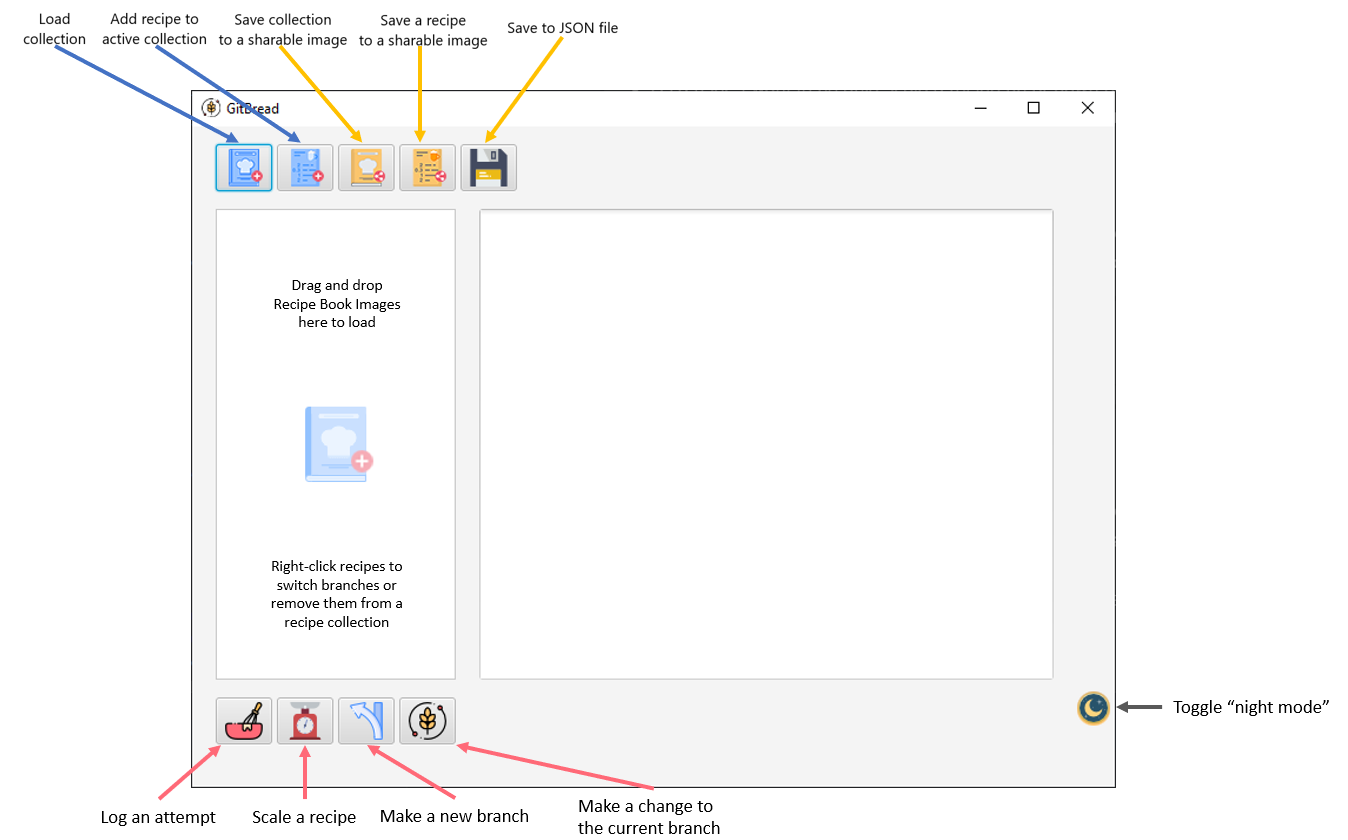
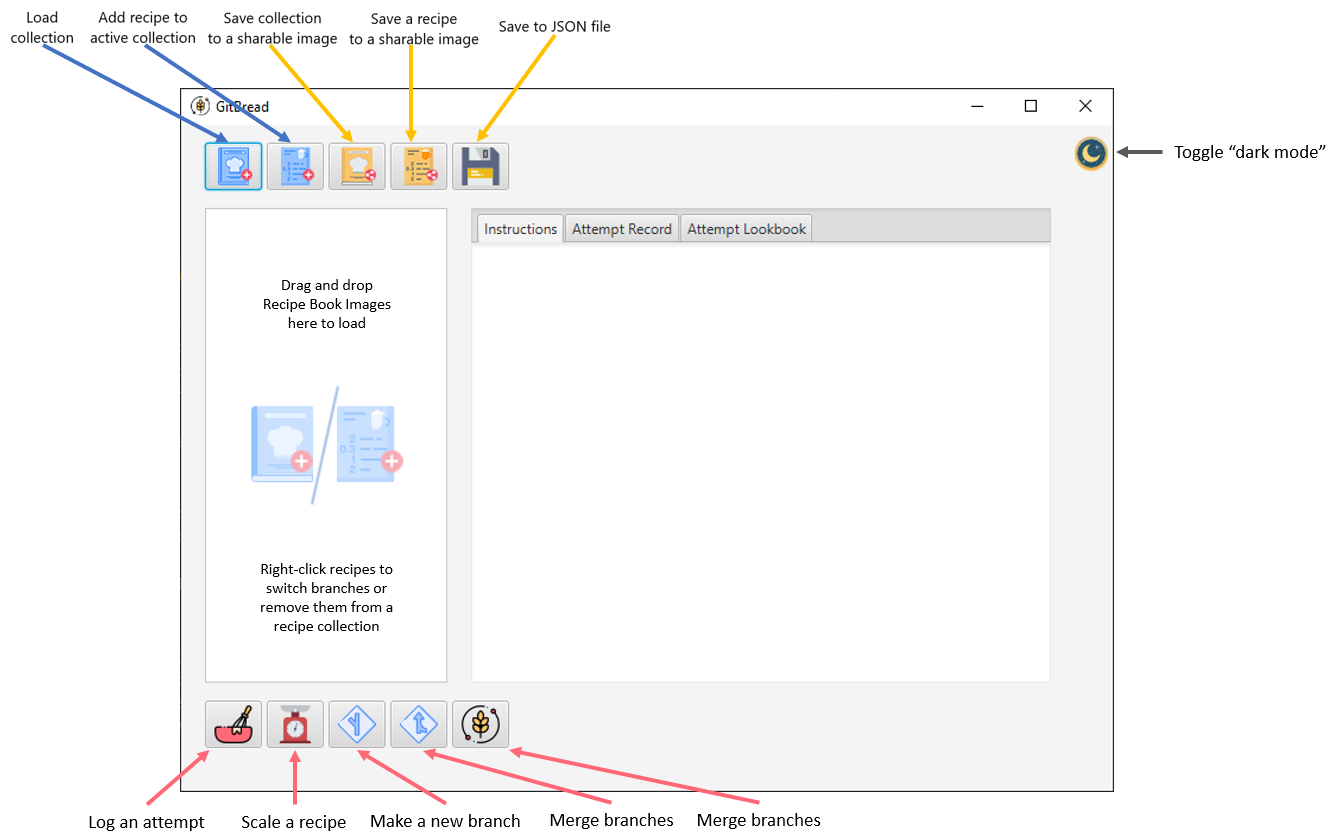
PHASE 3: Made the merge stage easier to interpret. Updated instructions image.

diff --git a/src/main/ui/MergeStage.java b/src/main/ui/MergeStage.java
@@ -5,12 +5,16 @@ import javafx.scene.Scene;
 import javafx.scene.control.Button;
 import javafx.scene.control.ChoiceBox;
 import javafx.scene.control.Label;
+import javafx.scene.text.Text;
 import javafx.scene.layout.VBox;
+import javafx.scene.text.TextAlignment;
+import javafx.scene.text.TextFlow;
 import javafx.stage.Modality;
 import javafx.stage.Stage;
 import model.RecipeDevHistory;
 
 import java.security.NoSuchAlgorithmException;
+import java.util.List;
 
 public class MergeStage {
     private static final int HEIGHT = 150;
@@ -24,7 +28,9 @@ public class MergeStage {
     public void display(RecipeDevHistory activeHistory) {
         stage.setTitle("Merge dialog");
         stage.initModality(Modality.APPLICATION_MODAL);
-        choiceBox.getItems().addAll(activeHistory.getBranches());
+        List<String> branches = activeHistory.getBranches();
+        branches.remove(activeHistory.getCurrentBranch());
+        choiceBox.getItems().addAll(branches);
         setUpScene(activeHistory);
         mergeButtonAction(activeHistory);
         stage.setScene(scene);
@@ -32,7 +38,14 @@ public class MergeStage {
     }
 
     private void setUpScene(RecipeDevHistory activeHistory) {
-        vbox.getChildren().add(new Label(activeHistory.getCurrentBranch()));
+        TextFlow flow = new TextFlow();
+        Text currentBranch = new Text(activeHistory.getCurrentBranch());
+        currentBranch.setStyle("-fx-font-weight: bold");
+        flow.getChildren().addAll(new Text("Merge: "), currentBranch, new Text(" with"));
+        flow.setTextAlignment(TextAlignment.CENTER);
+
+        String merge = "Merge: " + activeHistory.getCurrentBranch() + " with";
+        vbox.getChildren().add(flow);
         vbox.getChildren().add(choiceBox);
         vbox.getChildren().add(mergeButton);
         vbox.setAlignment(Pos.CENTER);

diff --git a/src/main/persistence/steganography/Steganos.java b/src/main/persistence/steganography/Steganos.java
@@ -77,7 +77,7 @@ public class Steganos {
 
     //EFFECTS: decode a byte array
     /*
-    put the byte array length in the first 4 bytes of the message so decode() can know how long the message is.
+    The byte array length is in the first 4 bytes of the message so decode() can know how long the message is.
      */
     public String decode(File file) throws IOException {
         byte[] byteImage = imageToByteArray(file);

diff --git a/src/main/persistence/Reader.java b/src/main/persistence/Reader.java
@@ -14,6 +14,7 @@ import java.io.IOException;
 public class Reader {
 
 
+    //TODO: use the singleton pattern to make sure there is only ever a single instance of ObjectMapper running.
     //REQUIRES: a properly formatted JSON file
     //EFFECTS: Load the provided collection file as a a RecipeDevCollection object.
     public static RecipeDevCollection loadRecipeCollectionFile(File file) throws IOException {
